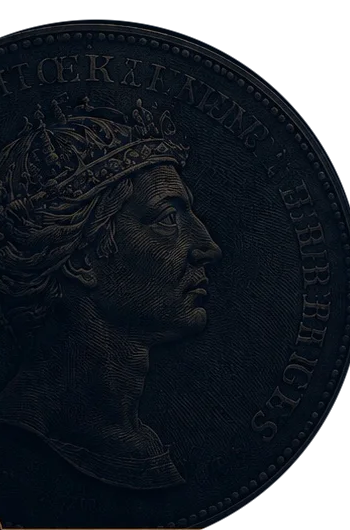
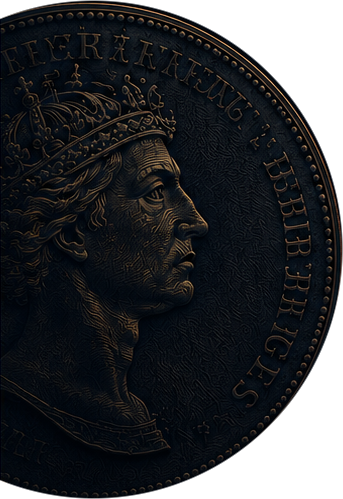
Use rounded corners and re-cut coins from the newer artwork
Corners: the comp uses clip-path polygons with 28px notches, but the source
artwork turns its frame corners on a radius, and the original site's own button
used border-radius: 10px. The build now follows the artwork. Real borders and
unclipped focus rings come free, so the chamfer sandwiches and the focus-ring
wrapper element are gone.

Coins: re-cut from homepage-desktop.png rather than the original JPEG. Same
coins, but warmer and with the engraving detail intact (0.75px and 0.99px RMS
circle fit). The ornamental frame line is painted across each coin in that
source and falls in the sliver that bleeds off-canvas, so it is trimmed.

Emblem: recentre the B. getStartPositionOfChar does not apply the
dominant-baseline shift, which had put the glyph's baseline rather than its ink
on the disc centre, leaving it ~30px high in a 200px box.

diff --git a/components/Hero.module.css b/components/Hero.module.css
@@ -45,19 +45,21 @@
   --coin-w: clamp(0px, calc(var(--gutter) * 1.3), 350px);
 
   width: var(--coin-w);
-  aspect-ratio: 350 / 530;
+  aspect-ratio: 343 / 499;
 }
 
+/* The trimmed edge is the frame line that was painted across the coin in the
+   source art, so each coin bleeds off on the side it was trimmed from. */
 .coinLeft {
-  left: calc(var(--coin-w) * -0.12);
+  left: calc(var(--coin-w) * -0.14);
   bottom: calc(var(--coin-w) * -0.14);
   background-image: url('/art/coin-left.png');
 }
 
 .coinRight {
-  right: calc(var(--coin-w) * -0.1);
+  right: calc(var(--coin-w) * -0.12);
   bottom: calc(var(--coin-w) * -0.1);
-  aspect-ratio: 330 / 398;
+  aspect-ratio: 336 / 411;
   background-image: url('/art/coin-right.png');
 }
 

diff --git a/README.md b/README.md
@@ -53,7 +53,11 @@ Three things in the source art were fixed rather than worked around:
 - **The coins had no alpha.** `coin-left.png` / `coin-right.png` were opaque
   rectangular crops with the navy baked in, which the comp hid behind stacked
   `mask-image` + `mask-composite` gradients. They are now genuine cutouts, so
-  the masking hack is gone and they can sit on any background.
+  the masking hack is gone and they can sit on any background. They are cut from
+  the newer `homepage-desktop.png` artwork rather than the original JPEG — same
+  coins, but warmer and with the engraving detail intact. The ornamental frame
+  line is painted across each coin in that source; it falls in the sliver that
+  bleeds off-canvas, so it is trimmed rather than inpainted.
 - **`ghost-watermark.png` was dropped.** It was the emblem, ghosted, so the site
   reuses the emblem SVG at low opacity instead.
 
